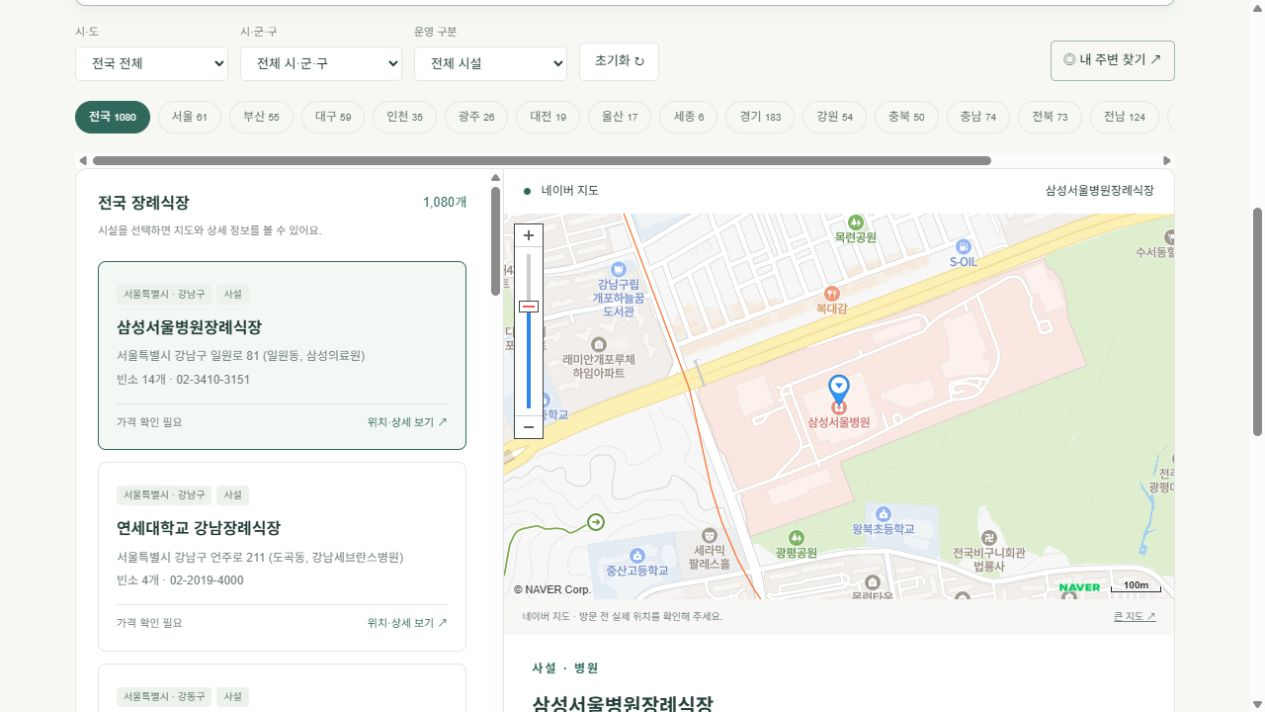
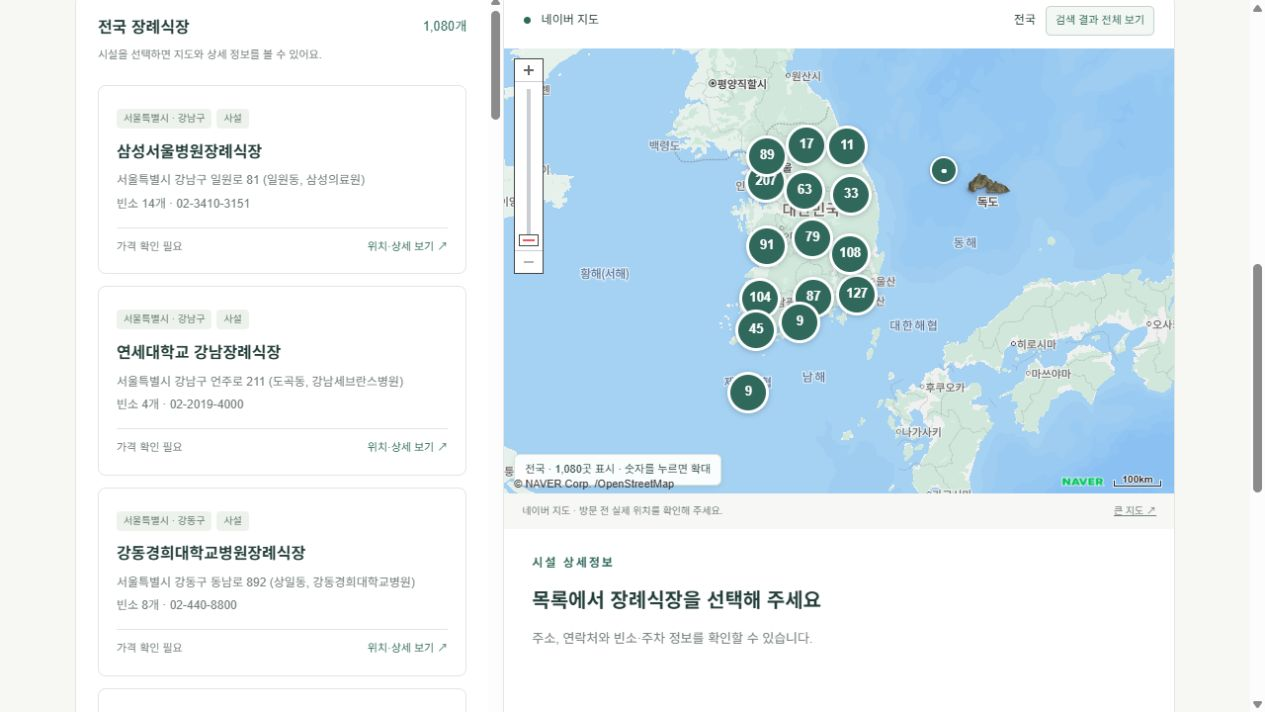
Fix national and regional funeral maps with clustered facility markers

diff --git a/dist/app.js b/dist/app.js
@@ -1,33 +1,62 @@
 const $=id=>document.getElementById(id);let data=[],filtered=[],shown=30,selected=null;
 const escapeHTML=s=>String(s??'').replace(/[&<>"']/g,c=>({'&':'&amp;','<':'&lt;','>':'&gt;','"':'&quot;',"'":'&#39;'}[c]));
 const short=s=>s.replace('특별자치도','').replace('특별자치시','').replace('특별시','').replace('광역시','').replace('경기도','경기').replace('충청북도','충북').replace('충청남도','충남').replace('전라남도','전남').replace('경상북도','경북').replace('경상남도','경남');
-let naverMap=null, naverMarker=null, mapRequest=0, lastMapQuery='대한민국 장례식장', lastAddress='';
+let naverMap=null,mapMarkers=[],mapInfo=null,positions={},mapPoints=[],mapFrame=0,mapReadyAttempts=0,coordinateFailed=false;
+const {locate,cluster}=window.MaeumMapModel;
+const emptyDetail=$('detail').innerHTML;
 function mapUnavailable(message){$('map').hidden=true;$('naverFallback').hidden=false;$('mapStatus').textContent=message}
-function mapQuery(q,address=''){
- lastMapQuery=q;lastAddress=address;const request=++mapRequest;
- const url='https://map.naver.com/p/search/'+encodeURIComponent(q);
- $('mapFallback').href=url;$('naverOpen').href=url;$('naverPlace').textContent=q;
- if(!naverMap)return;
- if(naverMarker){naverMarker.setMap(null);naverMarker=null}
- if(!address){$('map').hidden=false;$('naverFallback').hidden=true;naverMap.setCenter(new naver.maps.LatLng(36.4,127.8));naverMap.setZoom(7);return}
- mapUnavailable('주소 위치를 찾고 있습니다.');
- naver.maps.Service.geocode({query:address.replace(/\([^)]*\)/g,'').trim()},(status,response)=>{
-  if(request!==mapRequest)return;
-  const item=response?.v2?.addresses?.[0];
-  if(status!==naver.maps.Service.Status.OK||!item){mapUnavailable('주소 위치를 확인하지 못했습니다. 네이버 지도에서 검색해 주세요.');return}
-  const x=Number(item.x),y=Number(item.y);if(!Number.isFinite(x)||!Number.isFinite(y)){mapUnavailable('위치 정보를 확인하지 못했습니다. 네이버 지도에서 검색해 주세요.');return}
-  $('map').hidden=false;$('naverFallback').hidden=true;
-  naverMap.setSize(new naver.maps.Size($('map').clientWidth,$('map').clientHeight));
-  const point=new naver.maps.LatLng(y,x);naverMap.setCenter(point);naverMap.setZoom(16);
-  naverMarker=new naver.maps.Marker({position:point,map:naverMap,title:q});
- });
+function showMap(){$('map').hidden=false;$('naverFallback').hidden=true;naverMap.setSize(new naver.maps.Size($('map').clientWidth,$('map').clientHeight))}
+function resultLocation(){return [$('region').value,$('district').value].filter(Boolean).join(' ')||'전국'}
+function updateMapLinks(q){const url='https://map.naver.com/p/search/'+encodeURIComponent(q);$('mapFallback').href=url;$('naverOpen').href=url;$('naverPlace').textContent=q}
+function clearMapMarkers(){for(const marker of mapMarkers){naver.maps.Event.clearInstanceListeners(marker);marker.setMap(null)}mapMarkers=[]}
+function setMapSummary(){
+  const missing=filtered.length-mapPoints.length;
+  $('mapSummary').textContent=coordinateFailed?'지도 위치 데이터를 불러오지 못했습니다. 새로고침해 주세요.':!filtered.length?'검색 결과가 없습니다.':resultLocation()+' · '+mapPoints.length.toLocaleString()+'곳 표시'+(missing?' · 위치 미확인 '+missing.toLocaleString()+'곳':'')+' · 숫자를 누르면 확대';
 }
-window.navermap_authFailure=()=>{++mapRequest;naverMap=null;mapUnavailable('사이트 내 지도를 연결하지 못했습니다. 네이버 지도에서 확인해 주세요.')};
-let mapReadyAttempts=0; window.initNaverMap=()=>setTimeout(()=>{if(!window.naver?.maps?.Service?.geocode){if(++mapReadyAttempts<100){window.initNaverMap();return}window.navermap_authFailure();return}try{$('map').hidden=false;$('naverFallback').hidden=true;naverMap=new naver.maps.Map('map',{center:new naver.maps.LatLng(36.4,127.8),zoom:7,zoomControl:true});mapQuery(lastMapQuery,lastAddress)}catch(error){console.error(error);window.navermap_authFailure()}},100);
-if(window.MAEUM_MAP_CONFIG?.clientId){const script=document.createElement('script');script.src='https://oapi.map.naver.com/openapi/v3/maps.js?ncpKeyId='+encodeURIComponent(window.MAEUM_MAP_CONFIG.clientId)+'&submodules=geocoder';script.onload=window.initNaverMap;script.onerror=window.navermap_authFailure;document.head.append(script)}
-function setRegion(value){$('region').value=value;$('district').innerHTML='<option value="">전체 시·군·구</option>'+[...new Set(data.filter(r=>!value||r['시도']===value).map(r=>r['시군구']))].sort((a,b)=>a.localeCompare(b,'ko')).map(x=>`<option>${escapeHTML(x)}</option>`).join('');apply();mapQuery((value||'대한민국')+' 장례식장',value);$('mapLabel').textContent=value||'전국'}
-function apply(){const q=$('query').value.trim().toLowerCase(),region=$('region').value,district=$('district').value,type=$('type').value;filtered=data.filter(r=>(!region||r['시도']===region)&&(!district||r['시군구']===district)&&(!type||r['공-사설구분']===type)&&(!q||(r['시설명']+' '+r['주소']+' '+r['시도']).toLowerCase().includes(q)));shown=30;$('count').textContent=filtered.length.toLocaleString()+'개';$('resultTitle').textContent=(region||'전국')+' 장례식장';document.querySelectorAll('.chip').forEach(b=>b.classList.toggle('active',b.dataset.region===region));render()}
+function drawMapMarkers(){
+  if(!naverMap)return;clearMapMarkers();
+  const groups=cluster(mapPoints,naverMap.getZoom());
+  for(const group of groups){const count=group.members.length,point=new naver.maps.LatLng(group.lat,group.lng),r=group.members[0].row;
+    const title=count>1?'장례식장 '+count+'곳, 클릭하여 확대':r['시설명'];
+    const marker=new naver.maps.Marker({map:naverMap,position:point,title,icon:{content:count>1?`<button type="button" class="map-cluster" aria-label="${escapeHTML(title)}">${count}</button>`:`<button type="button" class="map-pin ${selected===r.id?'selected':''}" aria-label="${escapeHTML(title)}"><span aria-hidden="true">●</span></button>`,size:new naver.maps.Size(count>1?42:28,count>1?42:28),anchor:new naver.maps.Point(count>1?21:14,count>1?21:14)}});
+    naver.maps.Event.addListener(marker,'click',()=>{
+      if(count===1){choose(r.id);return}
+      if(naverMap.getZoom()>=17){mapInfo.setContent('<div class="map-place-list"><b>이 위치의 장례식장 '+count+'곳</b>'+group.members.map(p=>`<button type="button" data-map-id="${p.id}">${escapeHTML(p.row['시설명'])}</button>`).join('')+'</div>');mapInfo.open(naverMap,marker);return}
+      const bounds=new naver.maps.LatLngBounds();group.members.forEach(p=>bounds.extend(new naver.maps.LatLng(p.lat,p.lng)));
+      const zoom=naverMap.getZoom();naverMap.fitBounds(bounds,{top:55,right:55,bottom:55,left:55});if(naverMap.getZoom()<=zoom)naverMap.setZoom(zoom+2);if(naverMap.getZoom()>17)naverMap.setZoom(17);
+    });mapMarkers.push(marker);
+  }
+}
+function scheduleMapDraw(){cancelAnimationFrame(mapFrame);mapFrame=requestAnimationFrame(drawMapMarkers)}
+function fitMapResults(){
+  if(!naverMap)return;showMap();mapInfo.close();
+  if(!mapPoints.length){naverMap.setCenter(new naver.maps.LatLng(36.4,127.8));naverMap.setZoom(7);return}
+  const bounds=new naver.maps.LatLngBounds();mapPoints.forEach(p=>bounds.extend(new naver.maps.LatLng(p.lat,p.lng)));
+  naverMap.fitBounds(bounds,{top:45,right:45,bottom:55,left:45});if(naverMap.getZoom()>16)naverMap.setZoom(16);scheduleMapDraw();
+}
+function syncMapResults(){
+  mapPoints=locate(filtered,positions);updateMapLinks(resultLocation()+' 장례식장');$('mapLabel').textContent=resultLocation();setMapSummary();
+  if(!naverMap)return;clearMapMarkers();fitMapResults();scheduleMapDraw();
+}
+function focusFacility(r){
+  updateMapLinks(r['시설명']+' '+r['주소']);$('mapLabel').textContent=r['시설명'];
+  if(!naverMap)return;const p=positions[r['주소']];mapInfo.close();
+  if(!window.MaeumMapModel.validPoint(p)){$('mapSummary').textContent='이 시설의 위치를 확인하지 못했습니다. 큰 지도에서 주소를 검색해 주세요.';return}
+  showMap();naverMap.setCenter(new naver.maps.LatLng(p.lat,p.lng));naverMap.setZoom(17);scheduleMapDraw();
+  mapInfo.setContent('<div class="map-place-name">'+escapeHTML(r['시설명'])+'</div>');mapInfo.open(naverMap,new naver.maps.LatLng(p.lat,p.lng));
+}
+window.navermap_authFailure=()=>{naverMap=null;mapUnavailable('사이트 내 지도를 연결하지 못했습니다. 네이버 지도에서 확인해 주세요.')};
+window.initNaverMap=()=>setTimeout(()=>{if(!window.naver?.maps?.Map){if(++mapReadyAttempts<100){window.initNaverMap();return}window.navermap_authFailure();return}try{
+  $('map').hidden=false;$('naverFallback').hidden=true;naverMap=new naver.maps.Map('map',{center:new naver.maps.LatLng(36.4,127.8),zoom:7,zoomControl:true});mapInfo=new naver.maps.InfoWindow({borderWidth:0,backgroundColor:'#ffffff'});
+  naver.maps.Event.addListener(naverMap,'idle',scheduleMapDraw);window.addEventListener('resize',()=>{showMap();scheduleMapDraw()});syncMapResults();
+}catch(error){console.error(error);window.navermap_authFailure()}},100);
+if(window.MAEUM_MAP_CONFIG?.clientId){const script=document.createElement('script');script.src='https://oapi.map.naver.com/openapi/v3/maps.js?ncpKeyId='+encodeURIComponent(window.MAEUM_MAP_CONFIG.clientId);script.onload=window.initNaverMap;script.onerror=window.navermap_authFailure;document.head.append(script)}
+$('mapFit').onclick=()=>{selected=null;render();$('mapLabel').textContent=resultLocation();setMapSummary();fitMapResults()};
+document.addEventListener('click',e=>{const button=e.target.closest('[data-map-id]');if(button)choose(Number(button.dataset.mapId))});
+
+function setRegion(value){$('region').value=value;$('district').innerHTML='<option value="">전체 시·군·구</option>'+[...new Set(data.filter(r=>!value||r['시도']===value).map(r=>r['시군구']))].sort((a,b)=>a.localeCompare(b,'ko')).map(x=>`<option>${escapeHTML(x)}</option>`).join('');apply()}
+function apply(){const q=$('query').value.trim().toLowerCase(),region=$('region').value,district=$('district').value,type=$('type').value;filtered=data.filter(r=>(!region||r['시도']===region)&&(!district||r['시군구']===district)&&(!type||r['공-사설구분']===type)&&(!q||(r['시설명']+' '+r['주소']+' '+r['시도']).toLowerCase().includes(q)));selected=null;shown=30;$('detail').innerHTML=emptyDetail;$('count').textContent=filtered.length.toLocaleString()+'개';$('resultTitle').textContent=(region||'전국')+' 장례식장';document.querySelectorAll('.chip').forEach(b=>b.classList.toggle('active',b.dataset.region===region));render();syncMapResults()}
 function render(){$('list').innerHTML=filtered.slice(0,shown).map(r=>`<button class="card ${selected===r.id?'active':''}" data-id="${r.id}"><span class="tag">${escapeHTML(r['시도'])} · ${escapeHTML(r['시군구'])}</span><span class="tag">${escapeHTML(r['공-사설구분'])}</span><h4>${escapeHTML(r['시설명'])}</h4><p>${escapeHTML(r['주소'])}</p><p>빈소 ${escapeHTML(r['빈소수']||'미기재')}개 · ${escapeHTML(r['전화번호']||'연락처 미기재')}</p><div class="card-bottom"><span>가격 확인 필요</span><b>위치·상세 보기 ↗</b></div></button>`).join('')||'<p class="empty">검색 결과가 없습니다.<br>다른 지역이나 이름으로 검색해 보세요.</p>';$('more').hidden=shown>=filtered.length}
-function choose(id){const r=data[id];selected=id;render();const q=r['시설명']+' '+r['주소'];mapQuery(q,r['주소']);$('mapLabel').textContent=r['시설명'];const tel=r['전화번호'].replace(/[^0-9+]/g,'');let homepage='';try{const u=new URL(/^https?:\/\//i.test(r['홈페이지'])?r['홈페이지']:'https://'+r['홈페이지']);if(r['홈페이지']&&['http:','https:'].includes(u.protocol))homepage=u.href}catch{}$('detail').innerHTML=`<div class="eyebrow">${escapeHTML(r['공-사설구분'])} · ${escapeHTML(r['운영종류'])}</div><h3>${escapeHTML(r['시설명'])}</h3><p>${escapeHTML(r['주소'])}</p><div class="detail-grid"><div>빈소<b>${escapeHTML(r['빈소수']||'미기재')}개</b></div><div>주차 가능<b>${escapeHTML(r['주차가능대수']||'미기재')}대</b></div><div>안치 가능<b>${escapeHTML(r['안치가능구수']||'미기재')}구</b></div></div><div class="actions">${tel?`<a href="tel:${tel}">전화 ${escapeHTML(r['전화번호'])}</a>`:''}<a href="https://map.naver.com/p/search/${encodeURIComponent(q)}" target="_blank" rel="noopener">네이버 지도 ↗</a>${homepage?`<a href="${escapeHTML(homepage)}" target="_blank" rel="noopener">홈페이지 ↗</a>`:''}</div><p class="price-note">빈소료·안치료·식사비: <b>확인 필요</b><br>가격 자료 미연동 · 시설에 항목별 견적을 요청해 주세요.</p>`;if(innerWidth<801)$('mapPanel').scrollIntoView({behavior:'smooth',block:'center'})}
-$('list').addEventListener('click',e=>{const c=e.target.closest('[data-id]');if(c)choose(Number(c.dataset.id))});$('searchForm').onsubmit=e=>{e.preventDefault();apply()};$('query').addEventListener('input',apply);$('region').onchange=()=>setRegion($('region').value);$('district').onchange=()=>{apply();mapQuery(($('region').value+' '+$('district').value+' 장례식장').trim(),($('region').value+' '+$('district').value).trim());$('mapLabel').textContent=($('region').value+' '+$('district').value).trim()||'전국'};$('type').onchange=apply;$('more').onclick=()=>{shown+=30;render()};$('reset').onclick=()=>{$('query').value='';$('type').value='';setRegion('')};$('chips').onclick=e=>{const b=e.target.closest('[data-region]');if(b)setRegion(b.dataset.region)};
-fetch('facilities.json').then(r=>{if(!r.ok)throw Error();return r.json()}).then(rows=>{data=rows.map((r,id)=>({...r,id}));const regions=[...new Set(data.map(r=>r['시도']))];$('region').innerHTML+=[...regions].map(x=>`<option>${escapeHTML(x)}</option>`).join('');$('chips').innerHTML=['',...regions].map(x=>`<button class="chip" data-region="${escapeHTML(x)}">${x?short(x):'전국'} <small>${x?data.filter(r=>r['시도']===x).length:data.length}</small></button>`).join('');setRegion('')}).catch(()=>{$('count').textContent='불러오기 실패';$('list').innerHTML='<p>목록을 불러오지 못했습니다. 새로고침해 주세요.</p>'});
+function choose(id){const r=data[id];selected=id;render();const q=r['시설명']+' '+r['주소'];focusFacility(r);const tel=r['전화번호'].replace(/[^0-9+]/g,'');let homepage='';try{const u=new URL(/^https?:\/\//i.test(r['홈페이지'])?r['홈페이지']:'https://'+r['홈페이지']);if(r['홈페이지']&&['http:','https:'].includes(u.protocol))homepage=u.href}catch{}$('detail').innerHTML=`<div class="eyebrow">${escapeHTML(r['공-사설구분'])} · ${escapeHTML(r['운영종류'])}</div><h3>${escapeHTML(r['시설명'])}</h3><p>${escapeHTML(r['주소'])}</p><div class="detail-grid"><div>빈소<b>${escapeHTML(r['빈소수']||'미기재')}개</b></div><div>주차 가능<b>${escapeHTML(r['주차가능대수']||'미기재')}대</b></div><div>안치 가능<b>${escapeHTML(r['안치가능구수']||'미기재')}구</b></div></div><div class="actions">${tel?`<a href="tel:${tel}">전화 ${escapeHTML(r['전화번호'])}</a>`:''}<a href="https://map.naver.com/p/search/${encodeURIComponent(q)}" target="_blank" rel="noopener">네이버 지도 ↗</a>${homepage?`<a href="${escapeHTML(homepage)}" target="_blank" rel="noopener">홈페이지 ↗</a>`:''}</div><p class="price-note">빈소료·안치료·식사비: <b>확인 필요</b><br>가격 자료 미연동 · 시설에 항목별 견적을 요청해 주세요.</p>`;if(innerWidth<801)$('mapPanel').scrollIntoView({behavior:'smooth',block:'center'})}
+$('list').addEventListener('click',e=>{const c=e.target.closest('[data-id]');if(c)choose(Number(c.dataset.id))});$('searchForm').onsubmit=e=>{e.preventDefault();apply()};$('query').addEventListener('input',apply);$('region').onchange=()=>setRegion($('region').value);$('district').onchange=apply;$('type').onchange=apply;$('more').onclick=()=>{shown+=30;render()};$('reset').onclick=()=>{$('query').value='';$('type').value='';setRegion('')};$('chips').onclick=e=>{const b=e.target.closest('[data-region]');if(b)setRegion(b.dataset.region)};
+Promise.all([fetch('facilities.json').then(r=>{if(!r.ok)throw Error();return r.json()}),fetch('facility-coordinates.json').then(r=>{if(!r.ok)throw Error();return r.json()}).catch(()=>{coordinateFailed=true;return {positions:{}}})]).then(([rows,coordinates])=>{positions=coordinates.positions;data=rows.map((r,id)=>({...r,id}));const regions=[...new Set(data.map(r=>r['시도']))];$('region').innerHTML+=[...regions].map(x=>`<option>${escapeHTML(x)}</option>`).join('');$('chips').innerHTML=['',...regions].map(x=>`<button class="chip" data-region="${escapeHTML(x)}">${x?short(x):'전국'} <small>${x?data.filter(r=>r['시도']===x).length:data.length}</small></button>`).join('');setRegion('')}).catch(()=>{$('count').textContent='불러오기 실패';$('list').innerHTML='<p>목록을 불러오지 못했습니다. 새로고침해 주세요.</p>'});

diff --git a/dist/style.css b/dist/style.css
@@ -1,3 +1,4 @@
 :root{--ink:#243e39;--muted:#737f7b;--green:#30695b;--line:#e1e7e2;--bg:#f7f8f4}*{box-sizing:border-box}html{scroll-behavior:smooth}body{margin:0;color:var(--ink);font-family:Arial,'Noto Sans KR',sans-serif;background:var(--bg);line-height:1.6}a{color:inherit;text-decoration:none}button,input,select{font:inherit}button,a,select{touch-action:manipulation}button{cursor:pointer}header{height:90px;display:flex;align-items:center;justify-content:space-between;padding:0 6%;border-bottom:1px solid var(--line);background:#fff}.brand{font-size:26px;font-weight:750;letter-spacing:-1px;display:flex;align-items:center;gap:10px}.symbol{font-size:40px;color:var(--green)}.brand small{font-size:12px;font-weight:400;letter-spacing:0;color:var(--muted);margin-left:15px}nav{display:flex;gap:28px;align-items:center;font-size:14px}.pill{border:1px solid var(--line);padding:5px 12px;border-radius:20px;font-size:12px}main{max-width:1440px;margin:auto}.hero{position:relative;padding:60px 6% 40px;overflow:hidden}.eyebrow{color:var(--green);font-size:12px;font-weight:700;letter-spacing:2px}h1{font-size:44px;letter-spacing:-2px;line-height:1.4;font-weight:550;margin:15px 0}p{color:var(--muted);font-size:14px} .hero p{font-size:16px}.hero-stats{display:flex;gap:24px;font-size:12px;color:var(--muted);margin-top:30px}.hero-stats span+span{border-left:1px solid #ccd7cd;padding-left:24px}.hero-stats b{color:var(--ink);font-size:20px;margin-right:4px}.hero-stats .date{display:block;font-size:12px}.flower{position:absolute;right:9%;top:-70px;color:#e0e8df;font-size:390px;line-height:1.4;transform:rotate(-12deg);z-index:-0;pointer-events:none}.hero>div:not(.flower),.hero h1,.hero p{position:relative;z-index:1}.finder{margin:10px 6% 55px}.section-title{display:flex;align-items:center;justify-content:space-between}.section-title h2{font-size:22px;font-weight:600}.section-title a{font-size:12px;color:var(--muted)}.search{display:flex;align-items:center;gap:15px;background:white;border:1px solid #a8bbb2;border-radius:10px;padding:8px 10px 8px 20px;box-shadow:0 4px 14px #203c3010}.search span{font-size:32px}.search input{border:0;outline:0;background:transparent;flex:1;min-width:0;padding:8px}.search button{background:var(--green);color:white;border:0;border-radius:6px;padding:11px 30px}.filters{display:flex;align-items:end;gap:12px;margin-top:18px}.filters label{font-size:11px;color:var(--muted);display:flex;flex-direction:column;gap:5px}.filters select{background:white;border:1px solid var(--line);border-radius:5px;padding:8px 30px 8px 12px;color:var(--ink);min-width:155px;font-size:13px}.secondary{background:white;color:var(--ink);border:1px solid var(--line);padding:8px 15px;border-radius:5px;font-size:13px}.near{margin-left:auto;font-size:13px;padding:9px 12px;border:1px solid #a3b8ab;border-radius:5px}.region-chips{display:flex;gap:8px;overflow:auto;padding:20px 0}.chip{white-space:nowrap;background:transparent;border:1px solid var(--line);color:#67746f;border-radius:20px;padding:6px 13px;font-size:12px}.chip.active{background:var(--green);color:white;border-color:var(--green)}.workspace{display:grid;grid-template-columns:39% 61%;border:1px solid var(--line);border-radius:12px;overflow:hidden;background:#fff;min-height:700px}.results{border-right:1px solid var(--line);padding:22px;max-height:850px;overflow:auto}.list-heading{display:flex;justify-content:space-between;align-items:center}.list-heading h3{font-size:16px;margin:0}.list-heading span{font-size:13px;color:var(--green)}.hint{font-size:11px;margin:6px 0 22px}.card{display:block;text-align:left;width:100%;border:1px solid var(--line);border-radius:8px;background:white;margin-bottom:12px;padding:18px;color:var(--ink)}.card:hover,.card.active{border-color:var(--green);background:#f4f8f4}.tag{font-size:10px;display:inline-block;color:#657c70;background:#edf2ec;padding:2px 7px;border-radius:4px;margin-right:5px}.card h4{font-size:16px;margin:10px 0 7px;font-weight:600}.card p{font-size:12px;margin:4px 0}.card-bottom{border-top:1px solid var(--line);margin-top:14px;padding-top:10px;display:flex;justify-content:space-between;font-size:11px;color:var(--muted)}.card-bottom b{font-weight:400;color:var(--green)}.map-head{display:flex;justify-content:space-between;padding:13px 20px;font-size:12px}.map-head i{display:inline-block;width:7px;height:7px;border-radius:50%;background:var(--green);margin-right:7px}.map-wrap{height:390px;background:#eaf0e7}.map-wrap iframe{border:0;width:100%;height:100%}.map-note{font-size:10px;padding:10px 18px;background:#f7f8f5;color:var(--muted)}.map-note a{float:right;text-decoration:underline}.detail{padding:25px 28px}.detail h3{font-size:20px;margin:12px 0}.detail p{font-size:13px}.detail-grid{display:grid;grid-template-columns:repeat(3,1fr);gap:12px;margin:20px 0}.detail-grid div{background:var(--bg);padding:12px;border-radius:6px;font-size:11px;color:var(--muted)}.detail-grid b{display:block;color:var(--ink);font-size:17px}.actions{display:flex;gap:8px;flex-wrap:wrap}.actions a{padding:9px 15px;background:var(--green);color:white;border-radius:5px;font-size:12px}.actions a+ a{background:#edf3ef;color:var(--green)}.price-note{font-size:12px!important;border-top:1px solid var(--line);padding-top:15px}.more{width:100%}.empty{padding:30px 0}.guide{margin:0 6% 45px;padding:35px 40px;background:#eaf0e9;border-radius:12px;display:grid;grid-template-columns:1fr 1fr;gap:60px}.guide h2{font-size:24px;line-height:1.5;font-weight:550}.guide a{font-size:13px;color:var(--green);text-decoration:underline}.price-items div{padding:18px 0;border-bottom:1px solid #d5dfd3;display:flex;justify-content:space-between;gap:10px;font-size:13px}.price-items span{font-size:12px;color:var(--muted)}footer{border-top:1px solid var(--line);padding:30px 6% 45px;display:flex;gap:30px;align-items:start}footer p{margin:0;font-size:11px}footer a{text-decoration:underline}footer small{font-size:10px;color:var(--muted);margin-left:auto}.mobile{display:none}:focus-visible{outline:3px solid #d49a40;outline-offset:3px}@media(max-width:800px){header{height:70px}.brand small,nav a{display:none}nav{gap:0}.hero{padding-top:35px}h1{font-size:32px}.flower{font-size:250px;right:-50px;top:0}.hero-stats{gap:12px}.hero-stats span+span{padding-left:12px}.hero-stats b{font-size:17px}.hero-stats span{font-size:10px}.section-title{gap:10px}.section-title h2{font-size:18px}.section-title a{font-size:10px}.filters{flex-wrap:wrap}.filters label{flex:1;min-width:26%}.filters select{min-width:0;width:100%;padding-right:8px}.workspace{grid-template-columns:1fr}.results{max-height:500px;border-right:0;border-bottom:1px solid var(--line)}.map-wrap{height:320px}.guide{grid-template-columns:1fr;gap:15px;padding:25px}.price-items div{flex-wrap:wrap}footer{flex-direction:column;gap:12px}footer small{margin:0}.search input{font-size:13px}.search button{padding:10px 18px}.detail{padding:20px}.mobile{display:block}}
 
-.map-wrap{position:relative;min-height:390px;height:auto}#map{height:390px;width:100%}[hidden]{display:none!important}.naver-fallback{min-height:390px;display:flex;flex-direction:column;align-items:center;justify-content:center;padding:28px;text-align:center;background:#edf4ed}.naver-mark{background:#03c75a;color:white;font-weight:900;font-size:27px;width:48px;height:48px;border-radius:12px;display:grid;place-items:center}.naver-fallback h3{font-size:18px;max-width:100%;overflow-wrap:anywhere;margin:16px 0 0}.naver-fallback p{max-width:380px;font-size:13px}.naver-fallback a{background:#176d43;color:white;border-radius:6px;padding:12px 22px;font-size:14px;margin:10px}.naver-fallback small{font-size:11px;color:#738276}
+.map-wrap{position:relative;min-height:450px;height:auto}#map{height:450px;width:100%}[hidden]{display:none!important}.naver-fallback{min-height:450px;display:flex;flex-direction:column;align-items:center;justify-content:center;padding:28px;text-align:center;background:#edf4ed}.naver-mark{background:#03c75a;color:white;font-weight:900;font-size:27px;width:48px;height:48px;border-radius:12px;display:grid;place-items:center}.naver-fallback h3{font-size:18px;max-width:100%;overflow-wrap:anywhere;margin:16px 0 0}.naver-fallback p{max-width:380px;font-size:13px}.naver-fallback a{background:#176d43;color:white;border-radius:6px;padding:12px 22px;font-size:14px;margin:10px}.naver-fallback small{font-size:11px;color:#738276}
+.map-column{min-width:0}.map-head{gap:10px;align-items:center;flex-wrap:wrap}.map-head>span:first-child{white-space:nowrap}.map-head #mapLabel{overflow-wrap:anywhere;margin-left:auto}.map-head #mapFit{border:1px solid #c4d3c9;background:#f4f8f4;border-radius:5px;padding:5px 9px;color:var(--green);font-size:11px;white-space:nowrap}.map-summary{position:absolute;bottom:8px;left:10px;right:10px;width:max-content;max-width:calc(100% - 20px);margin:0;padding:6px 10px;background:#fffffff2;border:1px solid #d9e3db;border-radius:6px;color:#344e43;font-size:11px;pointer-events:none;z-index:5;box-shadow:0 2px 6px #0001}.map-cluster{width:42px;height:42px;display:grid;place-items:center;border:3px solid #fff;border-radius:50%;background:#30695b;color:#fff;font-size:13px;font-weight:700;box-shadow:0 1px 6px #172e3450;padding:0}.map-cluster:hover{background:#184d3f;transform:scale(1.08)}.map-pin{width:28px;height:28px;border:2px solid #fff;border-radius:50%;background:#30695b;color:white;box-shadow:0 1px 5px #0005;font-size:11px;padding:0}.map-pin.selected{background:#b86919;outline:3px solid #f1c681}.map-place-name,.map-place-list{padding:12px;max-width:260px;font-size:13px;max-height:200px;overflow:auto}.map-place-list button{display:block;text-align:left;margin-top:8px;border:0;background:#edf4ed;color:#24513c;padding:8px;width:100%;border-radius:4px}.map-place-name{font-weight:700}@media(max-width:800px){.map-wrap,.naver-fallback{min-height:420px}#map{height:420px}.map-summary{font-size:10px}}

diff --git a/dist/index.html b/dist/index.html
@@ -3,6 +3,6 @@
 <header><a class="brand" href="./"><span class="symbol">✳</span> 마음길 <small>곁에서, 함께 찾는 길</small></a><nav><a href="#finder">장례식장 찾기</a><a href="#guide">가격 확인 안내</a><span class="pill">연습용 서비스</span></nav></header>
 <main><section class="hero"><div class="eyebrow">전국 장례식장 안내</div><h1>마음이 어려운 순간,<br>가까운 곳부터 차분하게.</h1><p>지역과 시설 정보를 한눈에 살펴보고,<br class="mobile"> 가족에게 맞는 장례식장을 찾아보세요.</p><div class="hero-stats"><span><b>1,080</b>개 시설</span><span><b>17</b>개 시·도</span><span>보건복지부 공공데이터 <b class="date">2026.04.01 기준</b></span></div><div class="flower" aria-hidden="true">✳</div></section>
 <section id="finder" class="finder"><div class="section-title"><h2>어느 지역에서 찾으시나요?</h2><a href="facilities.csv" download>전체 목록 내려받기 ↓</a></div><form id="searchForm" class="search"><span aria-hidden="true">⌕</span><input id="query" aria-label="장례식장명 또는 주소 검색" placeholder="장례식장 이름, 동네 또는 주소를 입력하세요"><button type="submit">검색</button></form><div class="filters"><label>시·도<select id="region"><option value="">전국 전체</option></select></label><label>시·군·구<select id="district"><option value="">전체 시·군·구</option></select></label><label>운영 구분<select id="type"><option value="">전체 시설</option><option>공설</option><option>사설</option></select></label><button id="reset" class="secondary">초기화 ↻</button><a class="near" href="https://map.naver.com/p/search/내%20주변%20장례식장" target="_blank" rel="noopener">◎ 내 주변 찾기 ↗</a></div><div class="region-chips" id="chips"></div>
-<div class="workspace"><section class="results"><div class="list-heading"><h3 id="resultTitle">전국 장례식장</h3><span id="count" aria-live="polite">불러오는 중</span></div><p class="hint">시설을 선택하면 지도와 상세 정보를 볼 수 있어요.</p><div id="list"></div><button id="more" class="secondary more" hidden>더 보기</button></section><section class="map-column"><div class="map-head"><span><i></i> 네이버 지도</span><span id="mapLabel">전국</span></div><div class="map-wrap" id="mapPanel"><div id="map" aria-label="네이버 지도" hidden></div><div id="naverFallback" class="naver-fallback"><span class="naver-mark" aria-hidden="true">N</span><h3 id="naverPlace">전국 장례식장</h3><p id="mapStatus" role="status">사이트 내 지도는 연결 준비 중입니다.<br>네이버 지도에서 위치와 길찾기를 확인하세요.</p><a id="naverOpen" href="https://map.naver.com/p/search/장례식장" target="_blank" rel="noopener">네이버 지도에서 보기 ↗</a><small>새 탭에서 열립니다</small></div></div><div class="map-note">네이버 지도 · 방문 전 실제 위치를 확인해 주세요. <a id="mapFallback" href="https://map.naver.com/p/search/장례식장" target="_blank" rel="noopener">큰 지도 ↗</a></div><div id="detail" class="detail"><div class="eyebrow">시설 상세정보</div><h3>목록에서 장례식장을 선택해 주세요</h3><p>주소, 연락처와 빈소·주차 정보를 확인할 수 있습니다.</p></div></section></div></section>
+<div class="workspace"><section class="results"><div class="list-heading"><h3 id="resultTitle">전국 장례식장</h3><span id="count" aria-live="polite">불러오는 중</span></div><p class="hint">시설을 선택하면 지도와 상세 정보를 볼 수 있어요.</p><div id="list"></div><button id="more" class="secondary more" hidden>더 보기</button></section><section class="map-column"><div class="map-head"><span><i></i> 네이버 지도</span><span id="mapLabel">전국</span><button id="mapFit" type="button">검색 결과 전체 보기</button></div><div class="map-wrap" id="mapPanel"><div id="map" aria-label="네이버 지도" hidden></div><p id="mapSummary" class="map-summary" role="status" aria-live="polite">장례식장 위치를 불러오는 중입니다.</p><div id="naverFallback" class="naver-fallback"><span class="naver-mark" aria-hidden="true">N</span><h3 id="naverPlace">전국 장례식장</h3><p id="mapStatus" role="status">사이트 내 지도는 연결 준비 중입니다.<br>네이버 지도에서 위치와 길찾기를 확인하세요.</p><a id="naverOpen" href="https://map.naver.com/p/search/장례식장" target="_blank" rel="noopener">네이버 지도에서 보기 ↗</a><small>새 탭에서 열립니다</small></div></div><div class="map-note">네이버 지도 · 방문 전 실제 위치를 확인해 주세요. <a id="mapFallback" href="https://map.naver.com/p/search/장례식장" target="_blank" rel="noopener">큰 지도 ↗</a></div><div id="detail" class="detail"><div class="eyebrow">시설 상세정보</div><h3>목록에서 장례식장을 선택해 주세요</h3><p>주소, 연락처와 빈소·주차 정보를 확인할 수 있습니다.</p></div></section></div></section>
 <section id="guide" class="guide"><div><div class="eyebrow">가격은 같은 기준으로</div><h2>총액보다 먼저,<br>포함된 항목을 확인하세요.</h2><p>현재 시설 데이터에는 가격이 포함되어 있지 않습니다.<br>확인되지 않은 금액은 표시하지 않습니다.</p><a href="https://www.15774129.go.kr/" target="_blank" rel="noopener">e하늘 장사정보에서 확인 ↗</a></div><div class="price-items"><div><b>01　빈소 사용료</b><span>면적 · 1일/시간 단위</span></div><div><b>02　안치료 · 입관료</b><span>이용 기간 · 서비스 포함 여부</span></div><div><b>03　음식 · 장례용품</b><span>조문객 수 · 품목별 단가</span></div><div><b>04　추가 비용</b><span>운구 · 인력 · 부가세</span></div></div></section>
-<footer><b>✳ 마음길</b><p>출처: <a href="https://www.data.go.kr/data/15143467/fileData.do" target="_blank" rel="noopener">보건복지부 장례식장 현황</a> · 기준일 2026.04.01 · 1,080건<br>운영 여부, 빈소 이용 가능 여부, 최종 가격은 시설에 직접 확인해 주세요. 실시간 예약 서비스가 아닙니다.</p><small>연습용 사이트 · 위치정보를 저장하지 않습니다.</small></footer></main><script src="map-config.js"></script><script src="app.js"></script></body></html>
+<footer><b>✳ 마음길</b><p>출처: <a href="https://www.data.go.kr/data/15143467/fileData.do" target="_blank" rel="noopener">보건복지부 장례식장 현황</a> · 기준일 2026.04.01 · 1,080건<br>운영 여부, 빈소 이용 가능 여부, 최종 가격은 시설에 직접 확인해 주세요. 실시간 예약 서비스가 아닙니다.</p><small>연습용 사이트 · 위치정보를 저장하지 않습니다.</small></footer></main><script src="map-config.js"></script><script src="map-model.js"></script><script src="app.js"></script></body></html>

diff --git a/dist/map-model.js b/dist/map-model.js
@@ -1,0 +1,11 @@
+(function(root){
+  const validPoint=p=>p&&Number.isFinite(p.lat)&&Number.isFinite(p.lng)&&p.lat>=32&&p.lat<=39.5&&p.lng>=124&&p.lng<=132;
+  function locate(rows,positions){return rows.flatMap(row=>{const p=positions[row['주소']];return validPoint(p)?[{id:row.id,lat:p.lat,lng:p.lng,row}]:[]})}
+  function cluster(points,zoom,cellSize=52){
+    const buckets=new Map(),scale=256*Math.pow(2,zoom);
+    for(const p of points){const sin=Math.sin(p.lat*Math.PI/180),x=(p.lng+180)/360*scale,y=(0.5-Math.log((1+sin)/(1-sin))/(4*Math.PI))*scale;
+      const key=Math.floor(x/cellSize)+':'+Math.floor(y/cellSize);if(!buckets.has(key))buckets.set(key,[]);buckets.get(key).push(p)}
+    return [...buckets.values()].map(members=>({members,lat:members.reduce((sum,p)=>sum+p.lat,0)/members.length,lng:members.reduce((sum,p)=>sum+p.lng,0)/members.length}));
+  }
+  const api={validPoint,locate,cluster};root.MaeumMapModel=api;if(typeof module!=='undefined')module.exports=api;
+})(typeof window!=='undefined'?window:globalThis);

diff --git a/README.md b/README.md
@@ -20,7 +20,9 @@
 - **시설 검색**: 장례식장 이름, 동네, 주소로 실시간 목록 필터링
 - **지역 필터**: 시·도와 시·군·구 선택, 지역별 시설 수 표시
 - **운영 구분**: 공설·사설 조건을 지역 및 검색어와 함께 적용
-- **네이버 지도**: 선택한 시설의 주소를 좌표로 변환하고 지도 이동 및 마커 표시
+- **전국·지역 지도**: 전국 1,080곳 또는 선택한 시·도·시·군·구의 시설을 함께 표시하고 전체 위치가 보이도록 지도 범위 조정
+- **숫자 마커**: 가까운 장례식장을 숫자로 묶어 표시하고, 클릭하면 확대해 개별 시설 확인
+- **목록·지도 동기화**: 검색어·공설/사설 필터를 지도에도 적용하며, 시설 선택 후 ‘검색 결과 전체 보기’로 전체 범위 복귀
 - **시설 상세**: 빈소 수, 주차 가능 대수, 안치 가능 수, 전화번호, 홈페이지 확인
 - **외부 연결**: 전화 걸기, 네이버 지도 검색, 길찾기를 위한 외부 지도 연결
 - **목록 내려받기**: 전체 시설 CSV 다운로드
@@ -42,11 +44,13 @@
 
 ### 목록과 지도 연결
 
-시설 선택 시 주소에서 괄호로 된 부가 정보를 제거한 뒤 Geocoding을 요청합니다. 응답 좌표로 지도를 이동하고 기존 마커를 새 마커로 교체합니다. 빠르게 다른 시설을 선택했을 때 이전 요청의 응답이 최신 선택을 덮어쓰지 않도록 요청 번호를 비교합니다.
+네이버 Geocoding으로 1,080개 시설 주소의 좌표를 미리 준비하고 `facility-coordinates.json`에 저장했습니다. 방문 시에는 저장된 좌표를 사용해 지역 및 검색 조건에 해당하는 시설 전체를 표시합니다. 목록의 ‘더 보기’와 관계없이 지도에는 전체 검색 결과가 포함됩니다. 시설 하나를 선택하면 해당 위치로 이동하며, 지역을 바꾸면 이전 지역 마커를 제거하고 지도 범위를 새 결과에 맞춥니다.
+
+줌 레벨별 화면 격자를 기준으로 가까운 시설을 숫자 마커로 묶습니다. 숫자는 포함된 시설 수이며, 확대하면 개별 위치로 나뉩니다. 같은 좌표의 시설은 확대 후 숫자 마커에서 시설 목록을 열어 선택할 수 있습니다.
 
 ### 지도 로딩과 오류 처리
 
-지도 스크립트와 Geocoding 모듈이 모두 준비된 뒤 지도를 초기화합니다. 지도를 숨겼다가 다시 표시할 때는 크기를 갱신해 일부 영역이 비어 보이는 문제를 보완했습니다. 지도 인증이나 주소 검색이 실패하면 네이버 지도 검색 링크를 제공합니다.
+지도 스크립트가 준비된 뒤 지도를 초기화합니다. 지도를 숨겼다가 다시 표시할 때는 크기를 갱신해 일부 영역이 비어 보이는 문제를 보완했습니다. 좌표가 누락되면 표시 개수와 미확인 개수를 구분하며, 검색 결과가 없으면 마커를 모두 지웁니다. 지도 인증이 실패하면 네이버 지도 검색 링크를 제공합니다.
 
 ### 검색 결과 렌더링
 
@@ -72,7 +76,7 @@ npx --yes serve dist -l 3000
 
 다른 도메인이나 로컬 환경에서 지도를 사용하려면 본인의 네이버 클라우드 Maps 애플리케이션을 설정합니다.
 
-1. Maps 애플리케이션에서 **Dynamic Map**, **Geocoding**을 선택합니다.
+1. Maps 애플리케이션에서 **Dynamic Map**을 선택합니다. 좌표 데이터를 새로 준비할 때는 **Geocoding**도 필요합니다.
 2. Web 서비스 URL에 배포 도메인을 등록합니다. 로컬 확인용으로는 `http://localhost`를 등록합니다.
 3. `dist/map-config.js`의 공개 Client ID를 본인의 값으로 바꿉니다.
 
@@ -106,7 +110,9 @@ Client ID는 브라우저에서 사용하는 공개 식별자입니다. **Client
     ├── index.html       # 화면 구조
     ├── style.css        # 스타일 및 반응형 레이아웃
     ├── app.js           # 검색, 필터, 상세 정보, 지도 연동
+    ├── map-model.js     # 좌표 검증 및 숫자 마커 그룹 계산
     ├── map-config.js    # 네이버 지도 공개 Client ID
+    ├── facility-coordinates.json # 미리 확인한 1,080개 주소 좌표
     ├── facilities.json  # 화면에서 사용하는 시설 데이터
     └── facilities.csv   # 다운로드용 전체 목록
 ```
@@ -115,16 +121,22 @@ Client ID는 브라우저에서 사용하는 공개 식별자입니다. **Client
 
 - Vercel 프로덕션 배포 완료 및 페이지 접속
 - 1,080개 시설 목록 로딩
-- 시설 선택 후 네이버 지도 이동 및 위치 마커 표시
+- 전국 1,080곳·서울 61곳·부산 55곳의 지도 표시 개수 일치
+- 숫자 마커 클릭 확대, 지역 전환, 시설 선택과 전체 범위 복귀
+- 검색 결과가 없는 경우 지도 마커 제거
 
-자동화된 테스트 코드는 아직 포함하지 않았습니다.
+좌표 유효성, 지역 전환, 줌별 시설 개수 보존, 같은 좌표의 시설 처리, 잘못된 좌표 제외를 검증하는 Node.js 테스트 5개를 포함했습니다.
+
+```bash
+node --test tests/map-model.test.cjs
+```
 
 ## 현재 한계와 개선 방향
 
 - 시설 데이터는 정적 스냅샷이며 운영 여부·빈소 이용 가능 여부를 실시간으로 반영하지 않습니다.
 - 가격 조회나 실제 예약을 제공하지 않습니다. 최종 정보는 시설에 직접 확인해야 합니다.
 - ‘내 주변 찾기’는 네이버 지도의 외부 검색 링크이며 현재 위치를 직접 수집하지 않습니다.
-- 주소 형식에 따라 Geocoding 결과가 없거나 실제 시설 입구와 위치가 다를 수 있습니다.
+- 저장된 좌표는 주소 기반 Geocoding 결과이며 실제 시설 입구와 위치가 다를 수 있습니다. 좌표 준비일은 `facility-coordinates.json`의 `generatedAt`에서 확인할 수 있습니다. 시설 데이터가 바뀌면 좌표도 함께 갱신해야 합니다.
 - 향후 데이터 갱신 절차, 주소 정규화, 필터 조합 테스트, 키보드·스크린리더 검증을 보완할 수 있습니다.
 
 ## 데이터 출처
